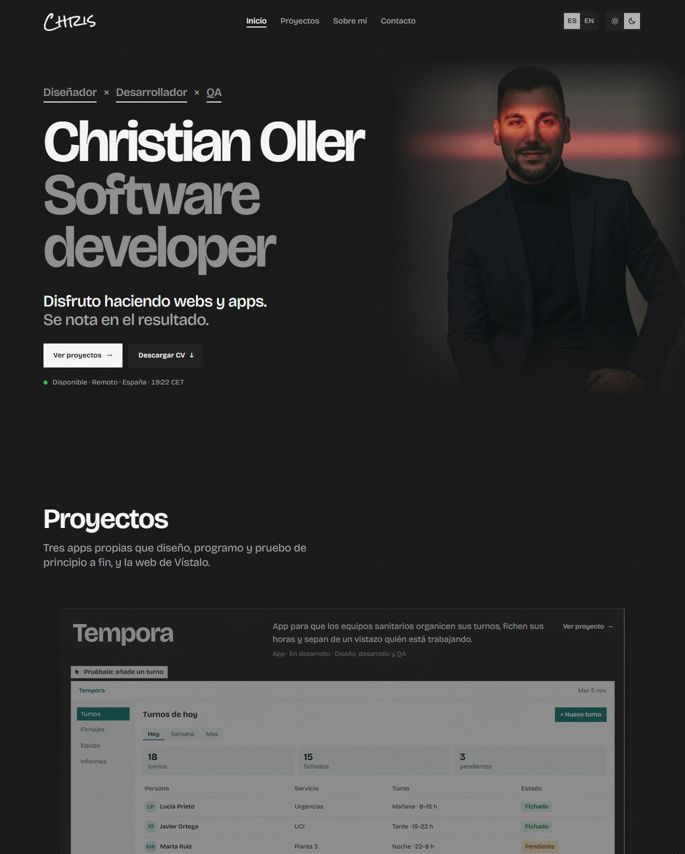
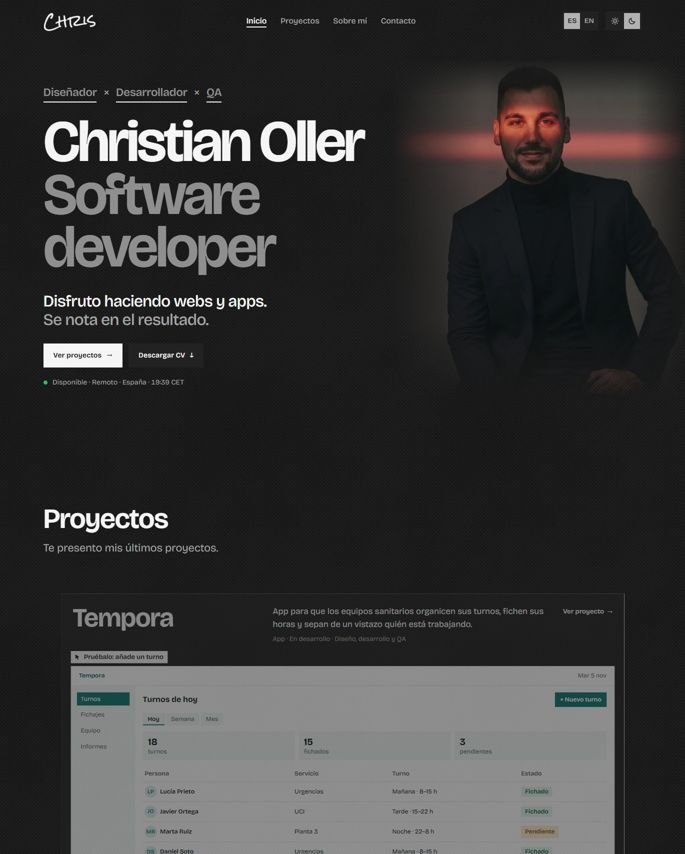
chore: refresh the canvas thumbnails and heights; close the first copy round

diff --git a/docs/referencias/roadmap-prototipo-def.md b/docs/referencias/roadmap-prototipo-def.md
@@ -959,7 +959,8 @@ igual: un punto por parada y la casilla se marca con su visto bueno.
     de la cronología y las herramientas por lente). Las etiquetas "v7.0, v6.0…" de la trayectoria
     no son de Angular: son la numeración de las etapas y se quedan.
 
-- [ ] **Textos y ajustes, primera tanda** (20 nov; hecho, pendiente de su repaso punto por punto).
+- [x] **Textos y ajustes, primera tanda** (20 nov; hecho y cerrado por él; miniaturas del lienzo
+  y alturas de página rehechas).
   Los textos nuevos son provisionales, en los dos idiomas:
   1. Hero: no se toca.
   2. Inicio, Proyectos: "Te presento mis últimos proyectos." (pidió "mis 3 últimos", pero se
